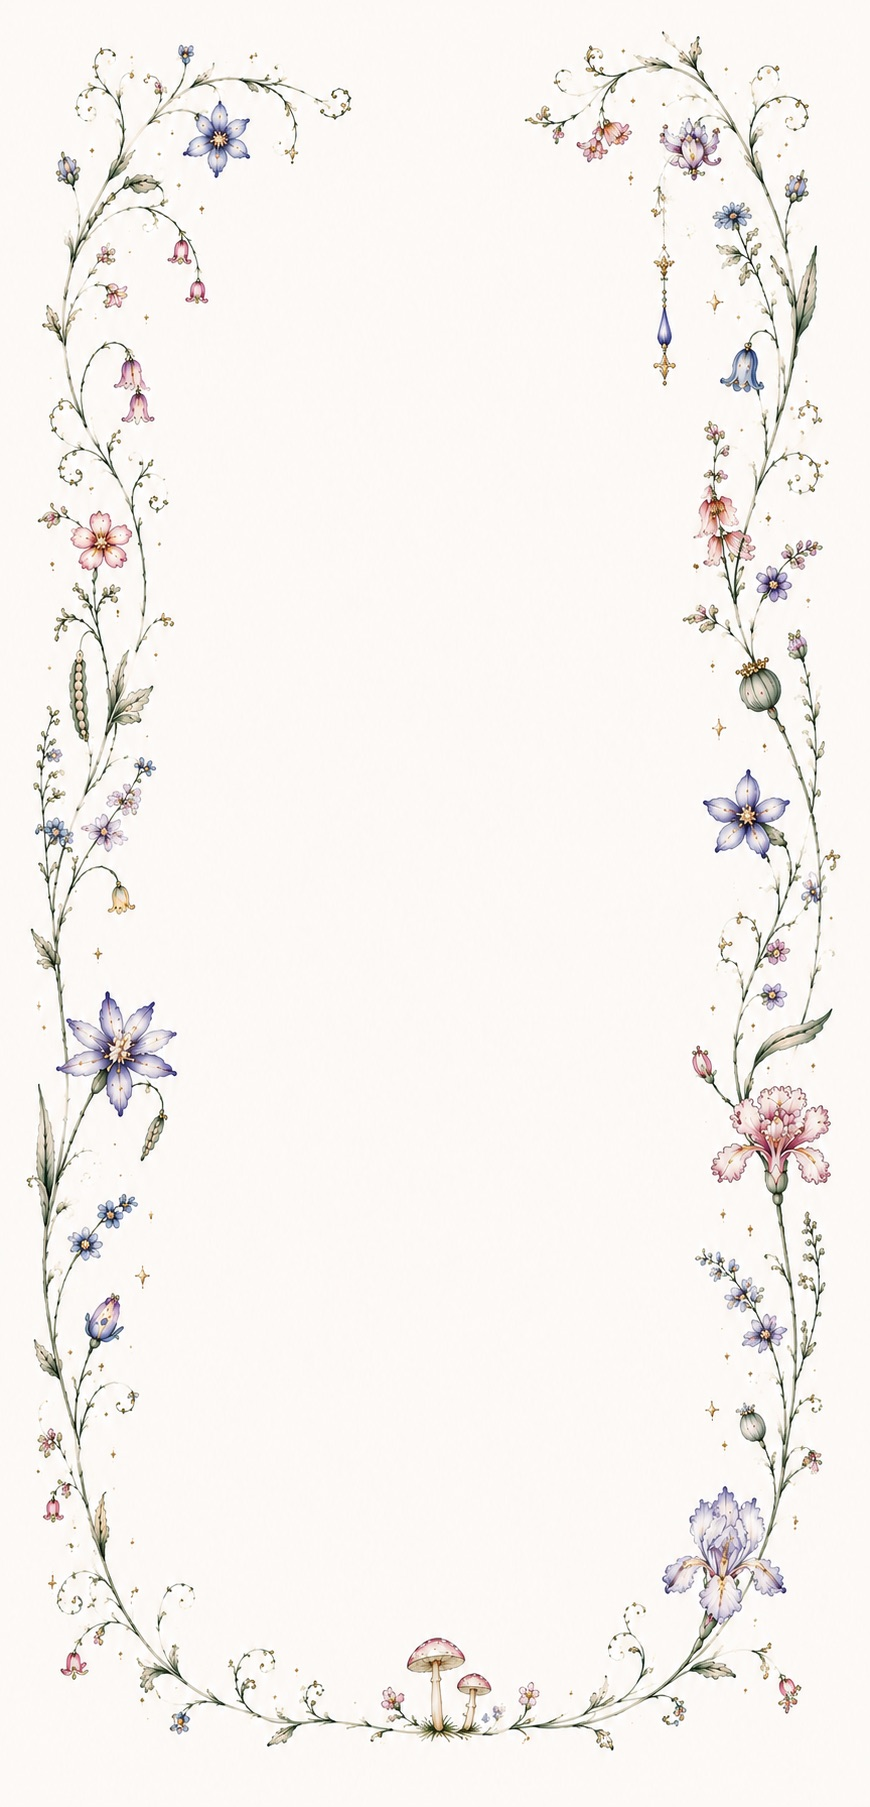
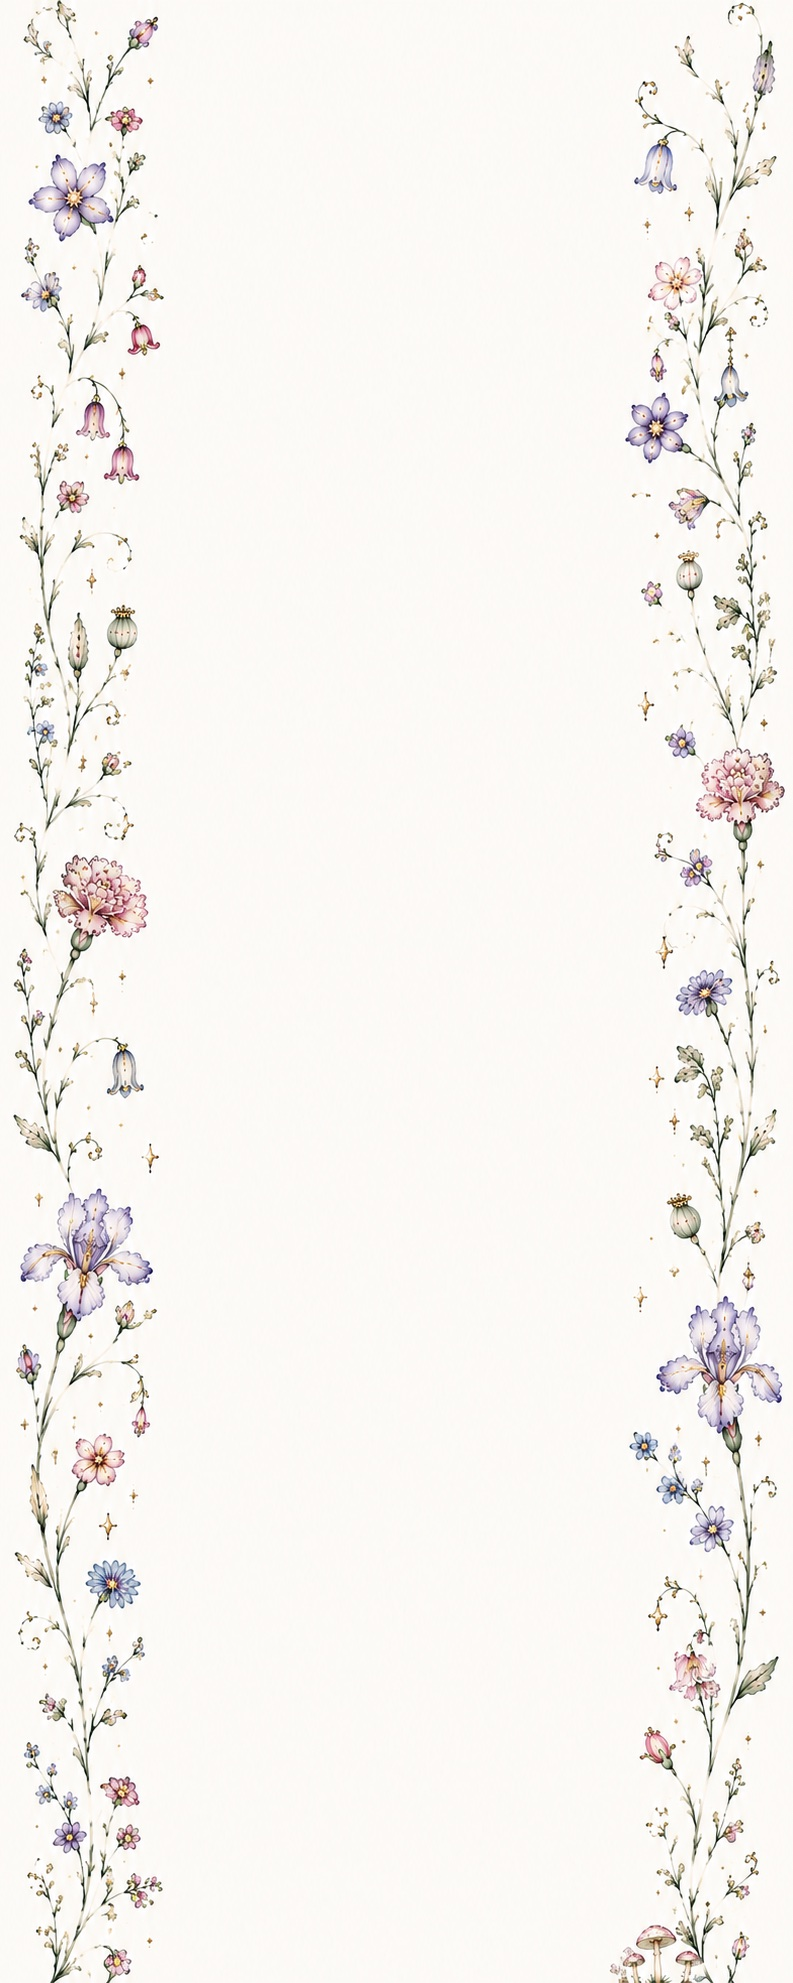
Side-flower background runs full page length and scrolls with content

diff --git a/styles.css b/styles.css
@@ -19,6 +19,7 @@ body{
   line-height:1.7;
   overflow-x:hidden;
   cursor:none;
+  position:relative;
 }
 @media(pointer:coarse){body{cursor:auto}}
 a,button,select,input,textarea,label{cursor:none}
@@ -210,19 +211,18 @@ footer{margin-top:88px;text-align:center;padding-bottom:26px}
   font-size:clamp(2.1rem,8vw,3.2rem);letter-spacing:.1em;color:var(--red);
 }
 
-/* the floral frame surrounds the hero (names + date) like a card, then scrolls
-   away — the sections below sit on clean paper white. contain keeps the whole
-   frame visible with no cropping. Portrait image on phones, landscape on
-   computers, chosen automatically by screen shape. */
+/* the side-flower image runs down the FULL height of the page and scrolls with
+   the content. The flowers sit on the left/right edges with an empty middle, so
+   text always lands on clear paper. Because the decoration is vertical vines,
+   stretching it to the page height reads naturally. It's centered in a column
+   capped at 760px so on wide computer screens the vines flank the content
+   instead of clinging to the far edges. */
 #bgart{
-  position:absolute;top:0;left:0;right:0;height:100vh;
+  position:absolute;top:0;bottom:0;left:50%;transform:translateX(-50%);
+  width:min(100%,760px);
   z-index:0;pointer-events:none;
   background:url(/bg-phone.jpg) center top no-repeat;
-  background-size:contain;
-}
-/* landscape screens (computers / tablets held sideways) → wide image */
-@media (min-aspect-ratio:1/1){
-  #bgart{background-image:url(/bg-desktop.jpg)}
+  background-size:100% 100%;
 }
 
 /* ---------- painted scenery ---------- */